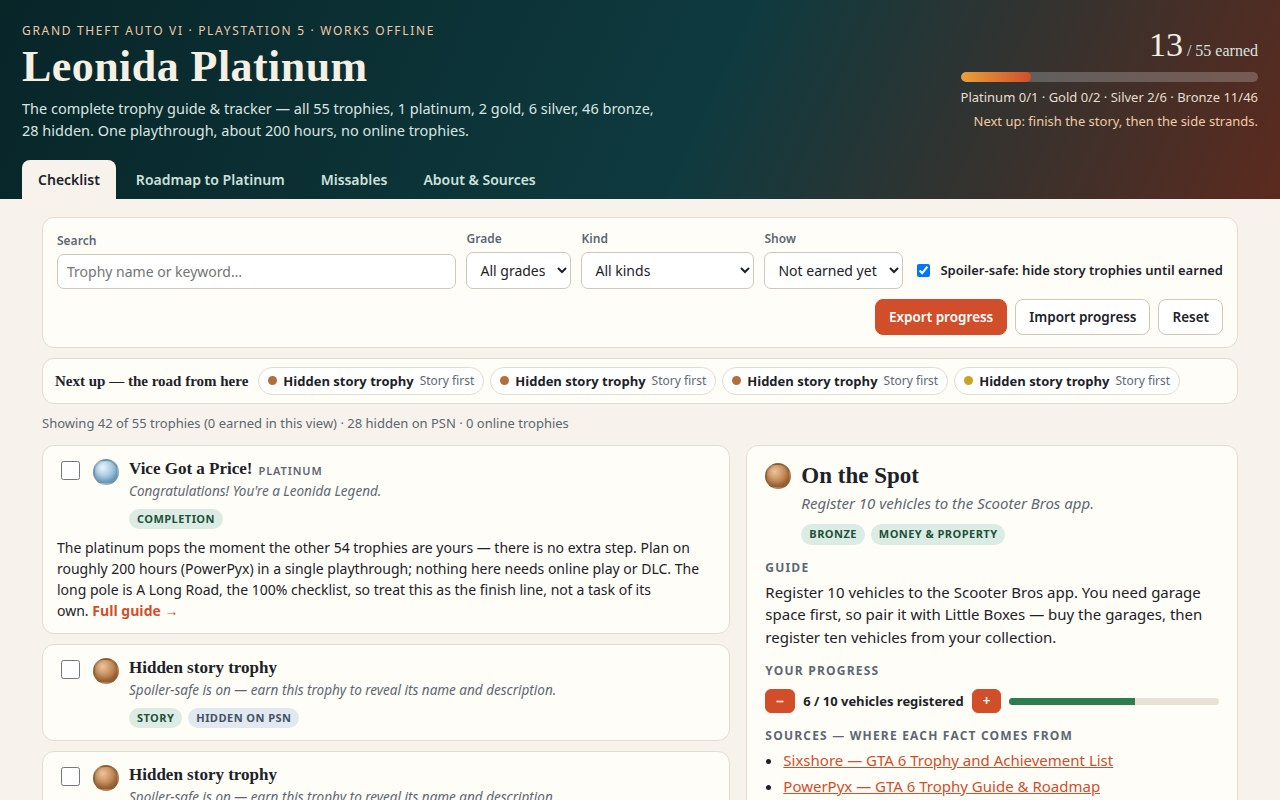
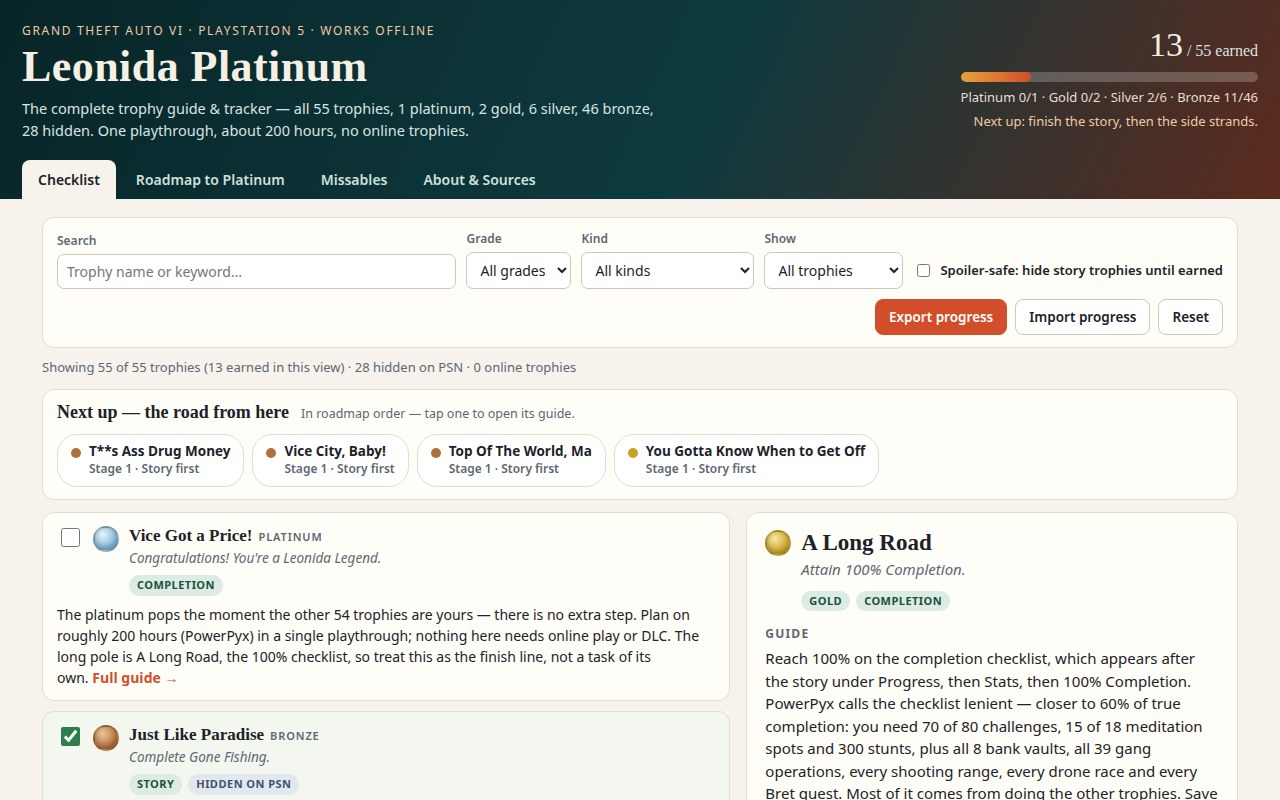
Polish: Next-up planner, counter-and-sources guide shot, spoiler-safe at work

Changed region(s): [[0.0312, 0.4375, 0.9375, 1.0], [0.5938, 0.3125, 0.6875, 0.3438], [0.7188, 0.3125, 0.75, 0.3438]]

diff --git a/app/js/views.js b/app/js/views.js
@@ -170,34 +170,6 @@ function counterRow(trophy, state, callbacks) {
   return row;
 }
 
-export function renderNextUp(container, trophies, state, onSelect) {
-  if (!container) return;
-  container.replaceChildren();
-  const unearned = trophies
-    .filter((t) => !isEarned(state, t.id))
-    .sort((a, b) => a.stage - b.stage || a.id - b.id);
-  if (unearned.length === 0) {
-    container.append(el('p', 'next-up-done', 'All 55 earned — platinum secured.'));
-    return;
-  }
-  container.append(el('h2', 'next-up-title', 'Next up — the road from here'));
-  const row = el('div', 'next-up-chips');
-  for (const t of unearned.slice(0, 4)) {
-    const stage = STAGES.find((s) => s.stage === t.stage);
-    const chip = el('button', 'next-up-chip');
-    chip.type = 'button';
-    chip.append(el('span', 'dot ' + t.grade));
-    chip.append(el('span', 'next-up-name', spoilerHidden(t, state) ? 'Hidden story trophy' : t.name));
-    chip.append(el('span', 'next-up-stage', stage ? stage.title : 'Stage ' + t.stage));
-    if (t.count) {
-      chip.append(el('span', 'next-up-count', `${counterOf(state, t.id)} / ${t.count.target} ${t.count.label}`));
-    }
-    chip.addEventListener('click', () => onSelect(t.id));
-    row.append(chip);
-  }
-  container.append(row);
-}
-
 export function renderTrophyList(container, trophies, state, selectedId, callbacks) {
   container.replaceChildren();
   if (trophies.length === 0) {
@@ -379,4 +351,40 @@ export function renderSources(listEl, sourcesMap) {
     li.append(a);
     listEl.append(li);
   }
+}
+
+export function renderNextUp(container, trophies, state, onSelect) {
+  container.replaceChildren();
+  const remaining = trophies
+    .filter((t) => !isEarned(state, t.id))
+    .sort((a, b) => a.stage - b.stage || a.id - b.id);
+  if (remaining.length === 0) {
+    container.append(el('p', 'next-up-done', 'All 55 earned — platinum secured.'));
+    return;
+  }
+  const head = el('div', 'next-up-head');
+  head.append(el('h2', '', 'Next up — the road from here'));
+  head.append(el('span', 'next-up-hint', 'In roadmap order — tap one to open its guide.'));
+  container.append(head);
+  const row = el('div', 'next-up-chips');
+  for (const trophy of remaining.slice(0, 4)) {
+    const stageInfo = STAGES.find((s) => s.stage === trophy.stage);
+    const stageTitle = stageInfo ? stageInfo.title : 'Stage ' + trophy.stage;
+    const chip = el('button', 'next-chip');
+    chip.type = 'button';
+    chip.append(el('span', 'dot ' + trophy.grade));
+    const body = el('span', 'next-chip-body');
+    const displayName = spoilerHidden(trophy, state) ? 'Hidden story trophy' : trophy.name;
+    body.append(el('span', 'next-chip-name', displayName));
+    let metaText = 'Stage ' + trophy.stage + ' · ' + stageTitle;
+    if (trophy.count) {
+      const current = counterOf(state, trophy.id);
+      metaText += ' · ' + current.toLocaleString() + ' / ' + trophy.count.target.toLocaleString() + ' ' + trophy.count.label;
+    }
+    body.append(el('span', 'next-chip-meta', metaText));
+    chip.append(body);
+    chip.addEventListener('click', () => onSelect(trophy.id));
+    row.append(chip);
+  }
+  container.append(row);
 }

diff --git a/app/style.css b/app/style.css
@@ -89,26 +89,26 @@ button.quiet:hover, .import-btn:hover { background: #f0ebe0; }
 .import-btn input { display: none; }
 .list-meta { margin: 2px 0 12px; color: var(--muted); font-size: 13px; }
 
-/* Next up planner */
+/* Next-up planner strip */
 .next-up {
-  display: flex; gap: 10px; flex-wrap: wrap; align-items: center;
   background: var(--card); border: 1px solid var(--line); border-radius: var(--radius);
-  padding: 8px 12px; margin-bottom: 10px;
+  padding: 12px 14px; margin-bottom: 12px;
 }
-.next-up-title { margin: 0; font-size: 15px; line-height: 1.2; white-space: nowrap; }
-.next-up-done { margin: 0; font-size: 14px; font-weight: 600; color: var(--ok); }
-.next-up-chips { display: flex; gap: 6px; flex-wrap: wrap; flex: 1; min-width: 0; }
-button.next-up-chip {
+.next-up-head { display: flex; gap: 12px; align-items: baseline; flex-wrap: wrap; margin-bottom: 10px; }
+.next-up-head h2 { margin: 0; font-size: 18px; line-height: 1.2; }
+.next-up-hint { color: var(--muted); font-size: 12.5px; }
+.next-up-done { margin: 0; font-weight: 700; color: var(--ok); font-size: 14.5px; }
+.next-up-chips { display: flex; gap: 8px; flex-wrap: wrap; }
+.next-chip {
+  display: inline-flex; gap: 8px; align-items: flex-start; text-align: left;
   background: #fff; color: var(--ink); border: 1px solid var(--line);
-  border-radius: 20px; padding: 4px 9px; cursor: pointer;
-  display: inline-flex; align-items: center; gap: 6px;
-  font: 13px "Segoe UI", system-ui, sans-serif; text-align: left;
+  border-radius: 20px; padding: 8px 13px; cursor: pointer; max-width: 100%;
 }
-button.next-up-chip:hover { background: #fff; color: var(--ink); border-color: var(--coral); }
-.next-up-chip .dot { display: inline-block; width: 9px; height: 9px; border-radius: 50%; flex: none; }
-.next-up-name { font-weight: 700; white-space: nowrap; }
-.next-up-stage { color: var(--muted); font-size: 12px; white-space: nowrap; }
-.next-up-count { color: var(--ok); font-size: 12px; font-weight: 700; white-space: nowrap; }
+.next-chip:hover { border-color: var(--coral); background: #fffaf3; }
+.next-chip .dot { flex: none; width: 10px; height: 10px; border-radius: 50%; margin-top: 5px; }
+.next-chip-body { display: flex; flex-direction: column; gap: 1px; min-width: 0; }
+.next-chip-name { font-weight: 700; font-size: 13.5px; line-height: 1.3; }
+.next-chip-meta { color: var(--muted); font-size: 12px; line-height: 1.35; }
 
 /* Checklist split: list + detail */
 .split { display: grid; grid-template-columns: minmax(0, 7fr) minmax(0, 5fr); gap: 16px; align-items: start; }

diff --git a/app/js/app.js b/app/js/app.js
@@ -64,12 +64,11 @@ function filteredTrophies() {
 
 function renderAll() {
   updateProgress(trophies, state);
+  renderNextUp(document.getElementById('nextUp'), trophies, state, selectTrophy);
   const shown = filteredTrophies();
   const earnedShown = shown.filter((t) => state.earned.includes(t.id)).length;
   document.getElementById('listMeta').textContent =
     `Showing ${shown.length} of ${trophies.length} trophies (${earnedShown} earned in this view) · 28 hidden on PSN · 0 online trophies`;
-  const nextUpEl = document.getElementById('nextUp');
-  if (nextUpEl) renderNextUp(nextUpEl, trophies, state, selectTrophy);
   renderTrophyList(document.getElementById('trophyList'), shown, state, selectedId, callbacks);
   renderDetail(document.getElementById('detailPanel'), selectedId ? byId.get(selectedId) : null, state, sourcesMap, callbacks);
   renderRoadmap(document.getElementById('roadmapStages'), trophies, state, selectTrophy);
@@ -172,10 +171,7 @@ window.addEventListener('hashchange', () => {
 if (shot === 'checklist') {
   selectedId = 28;
 } else if (shot === 'guide') {
-  // On the Spot (id 55): shortest guide among counted, non-story, unearned
-  // trophies (171 chars, target 10), so name, guide, counter and sources
-  // all fit in the detail pane at once.
-  selectedId = 55;
+  selectedId = 14;
 } else if (shot === 'roadmap') {
   currentView = 'roadmap';
 } else if (shot === 'missables') {
@@ -183,12 +179,7 @@ if (shot === 'checklist') {
 }
 if (shotMode) {
   // Counters shown in the guide shot, so the detail pane shows progress too.
-  if (shot === 'guide') {
-    state.counters = { ...state.counters, 55: 6 };
-    state.spoiler = true;
-    document.getElementById('spoilerToggle').checked = true;
-    document.getElementById('statusFilter').value = 'remaining';
-  }
+  if (shot === 'guide') state.counters = { ...state.counters, 15: 120 };
 }
 
 renderSources(document.getElementById('sourceList'), sourcesMap);

diff --git a/app/index.html b/app/index.html
@@ -72,8 +72,8 @@
         <button id="resetBtn" type="button" class="quiet">Reset</button>
       </div>
     </div>
-    <section id="nextUp" class="next-up" aria-label="Next up"></section>
     <p class="list-meta" id="listMeta"></p>
+    <div id="nextUp" class="next-up" aria-label="Next up planner"></div>
     <div class="split">
       <div class="list-col" id="trophyList" aria-live="polite"></div>
       <aside class="detail-col" id="detailPanel" aria-label="Trophy guide"></aside>
